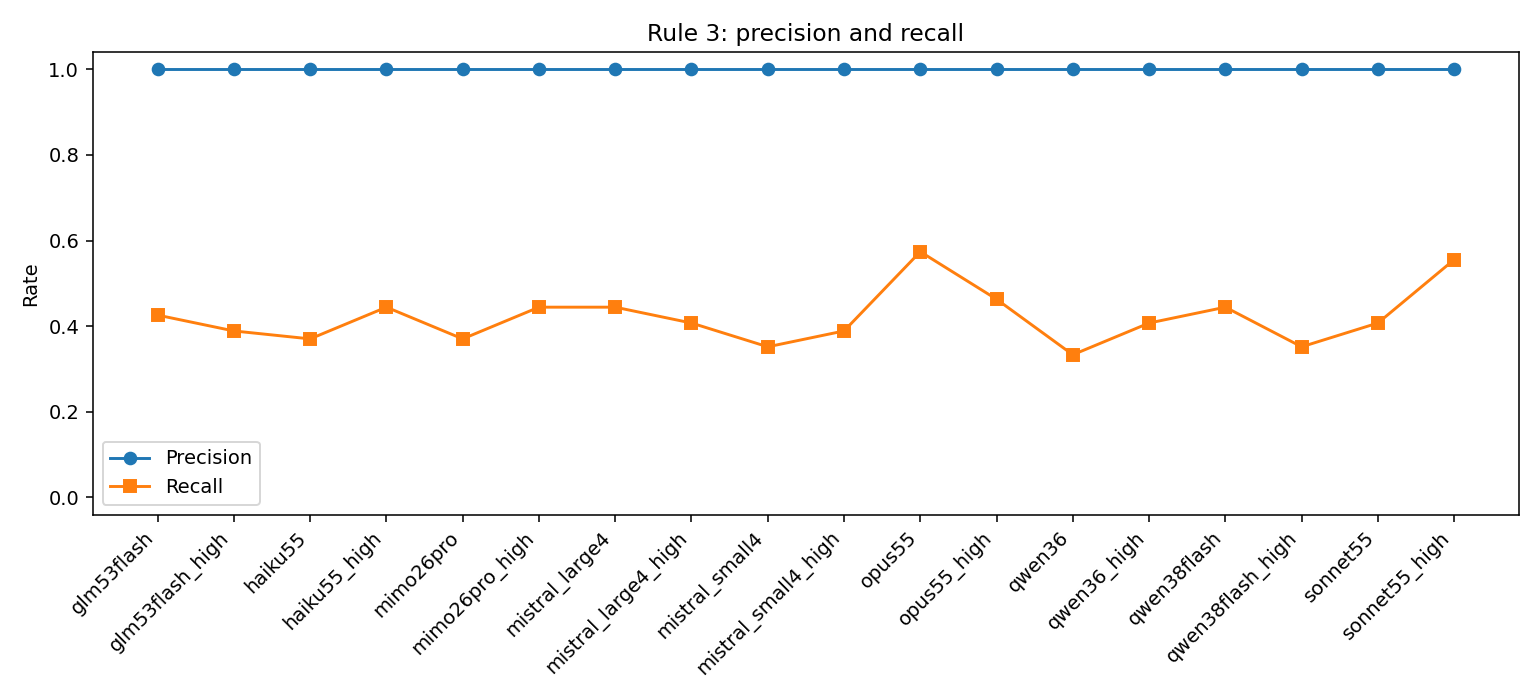
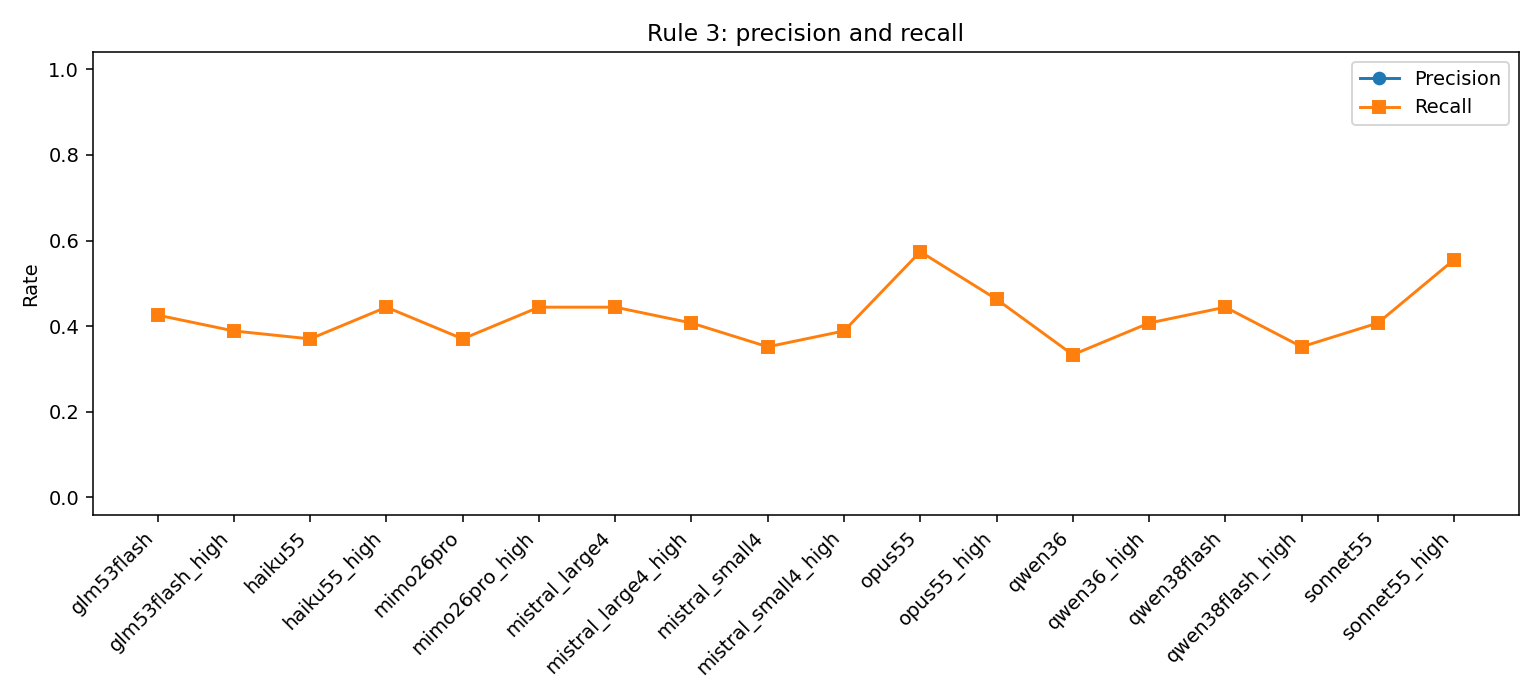
Red-team fixes: equal-rule recall, paired bootstrap delta CIs, unmeasured Rule 3 precision
## Done
- analyze.py reasoning_effect: recall_eq (equal-rule mean), rule4_positive_share, and 95% paired run-cell bootstrap CIs (stratified by rule, 2000 draws, seed 645) for pooled, equal-rule, and per-rule deltas.
- metrics: precision/F1 NaN for rules with no keep items (Rule 3), instead of a structural 1.0.
- paper_notes: stale first-read section marked obsolete; Rule 4 share corrected; CIs, leave-one-essay-out deltas, and reference-kappa sensitivity recorded. Tests 38 passed.

## Decisions
- Owner: pooled recall stays headline with equal-rule column beside it; paired run bootstrap for delta CIs.
- Error handling: none this session

## Next
- Write the paper from Assist/paper_notes.md and analysis_out/.

Changed region(s): [[0.0935, 0.09, 0.9974, 0.18], [0.0623, 0.63, 0.187, 0.72]]

diff --git a/bench/analysis/analyze.py b/bench/analysis/analyze.py
@@ -7,6 +7,7 @@ from pathlib import Path
 import matplotlib
 matplotlib.use("Agg")
 import matplotlib.pyplot as plt
+import numpy as np
 import pandas as pd
 from statsmodels.stats.contingency_tables import mcnemar
 from statsmodels.stats.multitest import multipletests
@@ -33,6 +34,9 @@ RUN_NUMERIC = ("cost_usd", "usage_output", "usage_reasoning", "invalid_edit_coun
                "collateral_count", "other_rule_instance", "uncatalogued_text")
 KEY = ["model_key", "run_id"]
 CELL = ["rule", "framing", "passage", "instance_id", "repeat"]
+RUN_CELL = ["rule", "passage", "repeat", "framing"]  # pairs a low-reasoning run with its high-reasoning twin
+BOOTSTRAP_DRAWS = 2000
+BOOTSTRAP_SEED = 645
 
 
 def wilson(successes: int, total: int) -> tuple[float, float]:
@@ -79,14 +83,19 @@ def load_scores(scores: Path) -> tuple[pd.DataFrame, pd.DataFrame]:
 
 
 def metrics(instances: pd.DataFrame) -> pd.DataFrame:
-    """Count confusion labels, then calculate pooled precision, recall and F1."""
+    """Count confusion labels, then calculate pooled precision, recall and F1.
+
+    FP exists only on keep-polarity items. A rule with no keep items (Rule 3) cannot produce an FP, so its
+    precision is unmeasured (NaN), not a demonstrated 1.0.
+    """
     rows = []
     for (rule, model), group in instances.groupby(["rule", "model_key"], sort=True):
         counts = group["label"].value_counts()
         tp, fn, fp, tn = (int(counts.get(label, 0)) for label in ("TP", "FN", "FP", "TN"))
-        p = tp / (tp + fp) if tp + fp else float("nan")
+        measurable = bool((group.polarity == "keep").any())
+        p = tp / (tp + fp) if measurable and tp + fp else float("nan")
         r = tp / (tp + fn) if tp + fn else float("nan")
-        p_low, p_high = wilson(tp, tp + fp)
+        p_low, p_high = wilson(tp, tp + fp) if measurable else (float("nan"), float("nan"))
         r_low, r_high = wilson(tp, tp + fn)
         f1 = 2 * p * r / (p + r) if p + r > 0 else float("nan")
         rows.append(dict(rule=rule, model_key=model, TP=tp, FN=fn, FP=fp, TN=tn,
@@ -236,9 +245,58 @@ def _condition_stats(instances: pd.DataFrame, runs: pd.DataFrame) -> dict[str, f
                 cost_usd=cost, cost_per_tp=cost / tp if tp else float("nan"))
 
 
+def _cell_counts(instances: pd.DataFrame) -> pd.DataFrame:
+    """TP and FN per run cell; FN counts parse failures, so failed runs stay in the denominator."""
+    labels = instances.assign(tp=instances.label.eq("TP"), fn=instances.label.eq("FN"))
+    return labels.groupby(RUN_CELL, observed=True)[["tp", "fn"]].sum().astype(int)
+
+
+def _delta_intervals(min_inst: pd.DataFrame, high_inst: pd.DataFrame) -> dict[str, tuple[float, float]]:
+    """95% paired bootstrap intervals for the high-minus-min recall deltas.
+
+    Instances cluster within runs and the same essays repeat, so instance-level intervals are too narrow.
+    The resampling unit is a run cell, paired across the two conditions, drawn with replacement within each
+    rule so every draw keeps the rule mix. Returns intervals for the pooled delta, the equal-rule delta, and
+    each rule's delta.
+    """
+    paired = _cell_counts(min_inst).join(_cell_counts(high_inst), lsuffix="_min", rsuffix="_high", how="inner")
+    rng = np.random.default_rng(BOOTSTRAP_SEED)
+    sums = {}
+    for rule, group in paired.groupby(level="rule"):
+        values = group[["tp_min", "fn_min", "tp_high", "fn_high"]].to_numpy()
+        draws = rng.integers(0, len(values), size=(BOOTSTRAP_DRAWS, len(values)))
+        sums[rule] = values[draws].sum(axis=1)  # shape (draws, 4)
+
+    def recall(tp, fn):
+        with np.errstate(invalid="ignore", divide="ignore"):
+            return tp / (tp + fn)
+
+    def interval(deltas: np.ndarray) -> tuple[float, float]:
+        low, high = np.nanpercentile(deltas, [2.5, 97.5])
+        return float(low), float(high)
+
+    per_rule = {rule: recall(s[:, 2], s[:, 3]) - recall(s[:, 0], s[:, 1]) for rule, s in sums.items()}
+    total = sum(sums.values())
+    result = {"pooled": interval(recall(total[:, 2], total[:, 3]) - recall(total[:, 0], total[:, 1])),
+              "equal_rule": interval(np.mean(list(per_rule.values()), axis=0))}
+    result.update({rule: interval(deltas) for rule, deltas in per_rule.items()})
+    return result
+
+
+def _equal_rule_recall(instances: pd.DataFrame) -> float:
+    """Mean of per-rule recalls, so each rule counts once regardless of its instance count."""
+    tp = instances.label.eq("TP").groupby(instances.rule).sum()
+    fn = instances.label.eq("FN").groupby(instances.rule).sum()
+    recalls = (tp / (tp + fn)).dropna()
+    return float(recalls.mean()) if len(recalls) else float("nan")
+
+
 def reasoning_effect(instances: pd.DataFrame, runs: pd.DataFrame) -> pd.DataFrame:
     """Compare min vs high reasoning on quality, usage, and API cost."""
     columns = ["model_key", "rule", "recall_min", "recall_high", "recall_delta",
+               "recall_delta_ci_low", "recall_delta_ci_high",
+               "recall_eq_min", "recall_eq_high", "recall_eq_delta",
+               "recall_eq_delta_ci_low", "recall_eq_delta_ci_high", "rule4_positive_share",
                "keep_damage_fp_rate_min", "keep_damage_fp_rate_high",
                "failed_runs_min", "failed_runs_high",
                "median_usage_output_min", "median_usage_output_high",
@@ -250,15 +308,23 @@ def reasoning_effect(instances: pd.DataFrame, runs: pd.DataFrame) -> pd.DataFram
     rows = []
 
     def add(model: str, rule, min_inst: pd.DataFrame, high_inst: pd.DataFrame,
-            min_run: pd.DataFrame, high_run: pd.DataFrame) -> None:
+            min_run: pd.DataFrame, high_run: pd.DataFrame, intervals: dict) -> None:
         if min_inst.empty or high_inst.empty:
             return
         minimum = _condition_stats(min_inst, min_run)
         high = _condition_stats(high_inst, high_run)
         cost_ratio = high["cost_usd"] / minimum["cost_usd"] if minimum["cost_usd"] else float("nan")
+        eq_min, eq_high = _equal_rule_recall(min_inst), _equal_rule_recall(high_inst)
+        delta_ci = intervals["pooled" if rule == "all" else rule]
+        eq_ci = intervals["equal_rule" if rule == "all" else rule]
+        positives = min_inst[min_inst.polarity != "keep"]
         rows.append(dict(model_key=model, rule=rule,
                          recall_min=minimum["recall"], recall_high=high["recall"],
                          recall_delta=high["recall"] - minimum["recall"],
+                         recall_delta_ci_low=delta_ci[0], recall_delta_ci_high=delta_ci[1],
+                         recall_eq_min=eq_min, recall_eq_high=eq_high, recall_eq_delta=eq_high - eq_min,
+                         recall_eq_delta_ci_low=eq_ci[0], recall_eq_delta_ci_high=eq_ci[1],
+                         rule4_positive_share=float((positives.rule == 4).mean()) if len(positives) else float("nan"),
                          keep_damage_fp_rate_min=minimum["keep_damage_fp_rate"],
                          keep_damage_fp_rate_high=high["keep_damage_fp_rate"],
                          failed_runs_min=minimum["failed_runs"], failed_runs_high=high["failed_runs"],
@@ -270,24 +336,22 @@ def reasoning_effect(instances: pd.DataFrame, runs: pd.DataFrame) -> pd.DataFram
                          cost_ratio=cost_ratio,
                          cost_per_tp_min=minimum["cost_per_tp"], cost_per_tp_high=high["cost_per_tp"]))
 
+    slices = {}
     for model in pairs:
         high_key = f"{model}_high"
         min_inst = instances[instances.model_key.astype(str) == model]
         high_inst = instances[instances.model_key.astype(str) == high_key]
-        min_run = runs[runs.model_key.astype(str) == model]
-        high_run = runs[runs.model_key.astype(str) == high_key]
         shared = set(min_inst.rule) & set(high_inst.rule)
-        add(model, "all", min_inst[min_inst.rule.isin(shared)], high_inst[high_inst.rule.isin(shared)],
-            min_run[min_run.rule.isin(shared)], high_run[high_run.rule.isin(shared)])
-    for model in pairs:
-        high_key = f"{model}_high"
-        min_inst = instances[instances.model_key.astype(str) == model]
-        high_inst = instances[instances.model_key.astype(str) == high_key]
-        min_run = runs[runs.model_key.astype(str) == model]
-        high_run = runs[runs.model_key.astype(str) == high_key]
-        for rule in sorted(set(min_inst.rule) & set(high_inst.rule)):
+        min_inst, high_inst = min_inst[min_inst.rule.isin(shared)], high_inst[high_inst.rule.isin(shared)]
+        min_run = runs[(runs.model_key.astype(str) == model) & runs.rule.isin(shared)]
+        high_run = runs[(runs.model_key.astype(str) == high_key) & runs.rule.isin(shared)]
+        slices[model] = (shared, min_inst, high_inst, min_run, high_run, _delta_intervals(min_inst, high_inst))
+    for model, (shared, min_inst, high_inst, min_run, high_run, intervals) in slices.items():
+        add(model, "all", min_inst, high_inst, min_run, high_run, intervals)
+    for model, (shared, min_inst, high_inst, min_run, high_run, intervals) in slices.items():
+        for rule in sorted(shared):
             add(model, rule, min_inst[min_inst.rule == rule], high_inst[high_inst.rule == rule],
-                min_run[min_run.rule == rule], high_run[high_run.rule == rule])
+                min_run[min_run.rule == rule], high_run[high_run.rule == rule], intervals)
     return pd.DataFrame(rows, columns=columns)
 
 
@@ -377,7 +441,12 @@ def analyze(scores: Path, out: Path, min_lower: float = 0.80) -> dict[str, pd.Da
     for name, frame in tables.items():
         note = "Claude cost is list-price-equivalent under subscription." if name == "API cost" else ""
         if name == "Reasoning effect":
-            note = "All-rules is the headline row. Claude cost is list-price-equivalent under subscription."
+            note = ("All-rules is the headline row: pooled recall plus the equal-rule mean (recall_eq), since "
+                    "Rule 4 supplies most positive instances (rule4_positive_share). Delta intervals are 95% "
+                    f"paired bootstrap over run cells within each rule ({BOOTSTRAP_DRAWS} draws, seed "
+                    f"{BOOTSTRAP_SEED}). Claude cost is list-price-equivalent under subscription.")
+        if name == "Precision recall F1":
+            note = "Rule 3 has no keep items, so it cannot produce FP: its precision and F1 are unmeasured (blank)."
         if name == "Repeat stability":
             note = "Only complete three-repeat instance cells count. Rule 3 framings are separate cells."
         if name == "Collateral per run":

diff --git a/analysis_out/reasoning_effect.md b/analysis_out/reasoning_effect.md
@@ -1,60 +1,60 @@
 # Reasoning effect
 
-All-rules is the headline row. Claude cost is list-price-equivalent under subscription.
+All-rules is the headline row: pooled recall plus the equal-rule mean (recall_eq), since Rule 4 supplies most positive instances (rule4_positive_share). Delta intervals are 95% paired bootstrap over run cells within each rule (2000 draws, seed 645). Claude cost is list-price-equivalent under subscription.
 
-| model_key | rule | recall_min | recall_high | recall_delta | keep_damage_fp_rate_min | keep_damage_fp_rate_high | failed_runs_min | failed_runs_high | median_usage_output_min | median_usage_output_high | median_usage_reasoning_min | median_usage_reasoning_high | cost_usd_min | cost_usd_high | cost_ratio | cost_per_tp_min | cost_per_tp_high |
-| --- | --- | --- | --- | --- | --- | --- | --- | --- | --- | --- | --- | --- | --- | --- | --- | --- | --- |
-| qwen36 | all | 0.15625 | 0.188301 | 0.0320513 | 0.357143 | 0.404762 | 1 | 7 | 589 | 3710 | 0 | 2933 | 0.169102 | 0.346527 | 2.04922 | 0.000867191 | 0.00147458 |
-| qwen38flash | all | 0.447917 | 0.327724 | -0.120192 | 0.52381 | 0.333333 | 4 | 6 | 893 | 8583 | 0 | 7065 | 0.219041 | 0.319767 | 1.45985 | 0.000391844 | 0.000781826 |
-| mistral_small4 | all | 0.0649038 | 0.165865 | 0.100962 | 0.309524 | 0.357143 | 6 | 0 | 198 | 952 | 0 | 624 | 0.147767 | 0.206443 | 1.39709 | 0.00182428 | 0.00099731 |
-| glm53flash | all | 0.453526 | 0.548077 | 0.0945513 | 0.47619 | 0.52381 | 3 | 2 | 1047 | 2506 | 730.5 | 2230.5 | 0.170111 | 0.336821 | 1.98 | 0.00030055 | 0.000492428 |
-| mimo26pro | all | 0.473558 | 0.629006 | 0.155449 | 0.547619 | 0.52381 | 2 | 0 | 317 | 6369.5 | 0 | 6049.5 | 0.650562 | 0.860538 | 1.32276 | 0.00110078 | 0.00109623 |
-| mistral_large4 | all | 0.431891 | 0.592147 | 0.160256 | 0.642857 | 0.47619 | 1 | 2 | 489 | 14165 | 0 | 12772 | 0.672245 | 2.70055 | 4.01722 | 0.00124721 | 0.00365433 |
-| haiku55 | all | 0.206731 | 0.663462 | 0.456731 | 0.357143 | 0.309524 | 1 | 0 | 422.5 | 3864 | 0 | 0 | 0.095876 | 0.400008 | 4.17214 | 0.000371612 | 0.000483101 |
-| sonnet55 | all | 0.494391 | 0.645833 | 0.151442 | 0.642857 | 0.5 | 7 | 0 | 622 | 1184.5 | 0 | 0 | 1.77109 | 3.15154 | 1.77944 | 0.00287048 | 0.0039101 |
-| opus55 | all | 0.678686 | 0.606571 | -0.0721154 | 0.404762 | 0.285714 | 0 | 0 | 559 | 1368.5 | 0 | 0 | 4.15328 | 8.1138 | 1.95359 | 0.00490351 | 0.0107184 |
-| qwen36 | 1 | 0.0952381 | 0.031746 | -0.0634921 | 0.2 | 0.2 | 1 | 5 | 2417 | 3860 | 0 | 2555 | 0.0559644 | 0.0634387 | 1.13355 | 0.00310914 | 0.0105731 |
-| qwen36 | 2 | 0.0784314 | 0.215686 | 0.137255 | 0.666667 | 0.666667 | 0 | 0 | 631 | 5084 | 0 | 4749 | 0.0264803 | 0.0414791 | 1.56641 | 0.00662009 | 0.00377082 |
-| qwen36 | 3 | 0.333333 | 0.407407 | 0.0740741 | NA | NA | 0 | 1 | 174.5 | 1848 | 0 | 1644.5 | 0.0335011 | 0.0597452 | 1.78338 | 0.00186117 | 0.00271569 |
-| qwen36 | 4 | 0.16317 | 0.215618 | 0.0524476 | 0 | 0 | 0 | 0 | 2237 | 10037 | 0 | 9213 | 0.0331934 | 0.14681 | 4.42286 | 0.000237096 | 0.000793567 |
-| qwen36 | 5 | 0.15625 | 0.114583 | -0.0416667 | 0.666667 | 0.888889 | 0 | 1 | 395 | 3873 | 0 | 3489 | 0.0199628 | 0.0350546 | 1.75599 | 0.00133086 | 0.00318678 |
-| qwen38flash | 1 | 0.269841 | 0.174603 | -0.0952381 | 0.733333 | 0.266667 | 1 | 2 | 7330 | 26024 | 0 | 22181 | 0.0682538 | 0.0886071 | 1.2982 | 0.00133831 | 0.00268506 |
-| qwen38flash | 2 | 0.235294 | 0.392157 | 0.156863 | 0.444444 | 0.444444 | 1 | 0 | 766 | 12553 | 0 | 9570 | 0.0164421 | 0.0552708 | 3.36154 | 0.00137018 | 0.00276354 |
-| qwen38flash | 3 | 0.444444 | 0.351852 | -0.0925926 | NA | NA | 0 | 0 | 668 | 4210 | 0 | 3992 | 0.0312496 | 0.0598088 | 1.9139 | 0.00130207 | 0.00314783 |
-| qwen38flash | 4 | 0.538462 | 0.374126 | -0.164336 | 0 | 0 | 1 | 4 | 5081 | 16639 | 0 | 14374 | 0.0497883 | 0.0852519 | 1.71229 | 0.000107767 | 0.000265582 |
-| qwen38flash | 5 | 0.104167 | 0.166667 | 0.0625 | 0.777778 | 0.666667 | 1 | 0 | 627 | 6200 | 0 | 5978 | 0.0533071 | 0.0308282 | 0.578312 | 0.00533071 | 0.00192676 |
-| mistral_small4 | 1 | 0.126984 | 0.10582 | -0.021164 | 0.2 | 0.133333 | 0 | 0 | 3394 | 4796 | 0 | 2814 | 0.044169 | 0.0421697 | 0.954734 | 0.00184038 | 0.00210848 |
-| mistral_small4 | 2 | 0.235294 | 0.176471 | -0.0588235 | 0.222222 | 0.444444 | 0 | 0 | 585 | 1361 | 0 | 1208 | 0.02643 | 0.0317644 | 1.20183 | 0.0022025 | 0.00352938 |
-| mistral_small4 | 3 | 0.351852 | 0.388889 | 0.037037 | NA | NA | 0 | 0 | 183 | 474.5 | 0 | 372 | 0.0531378 | 0.0520051 | 0.978683 | 0.00279673 | 0.00247643 |
-| mistral_small4 | 4 | 0.0221445 | 0.166667 | 0.144522 | 0 | 0 | 6 | 0 | 0 | 5404 | 0 | 4309 | 0.0101596 | 0.0461694 | 4.54439 | 0.000534718 | 0.000322863 |
-| mistral_small4 | 5 | 0.0729167 | 0.145833 | 0.0729167 | 0.888889 | 1 | 0 | 0 | 199 | 1200 | 0 | 970 | 0.0138701 | 0.0343347 | 2.47546 | 0.00198144 | 0.00245248 |
-| glm53flash | 1 | 0.238095 | 0.26455 | 0.026455 | 0.4 | 0.4 | 1 | 1 | 4996 | 20385 | 3219 | 18184 | 0.0338532 | 0.0887407 | 2.62134 | 0.000752293 | 0.00177481 |
-| glm53flash | 2 | 0.352941 | 0.470588 | 0.117647 | 0.666667 | 0.777778 | 0 | 0 | 1159 | 4104 | 748 | 3799 | 0.0303968 | 0.0533338 | 1.75459 | 0.00168871 | 0.00222224 |
-| glm53flash | 3 | 0.425926 | 0.388889 | -0.037037 | NA | NA | 0 | 0 | 640.5 | 1415.5 | 477.5 | 1280 | 0.0341178 | 0.0571023 | 1.67368 | 0.00148338 | 0.00271916 |
-| glm53flash | 4 | 0.545455 | 0.667832 | 0.122378 | 0 | 0 | 1 | 1 | 7198 | 24135 | 4364 | 20346 | 0.0507614 | 0.115892 | 2.28308 | 0.000108465 | 0.000202256 |
-| glm53flash | 5 | 0.125 | 0.166667 | 0.0416667 | 0.888889 | 1 | 1 | 0 | 733 | 1405 | 395 | 1094 | 0.0209822 | 0.0217512 | 1.03665 | 0.00174852 | 0.00135945 |
-| mimo26pro | 1 | 0.227513 | 0.285714 | 0.0582011 | 0.666667 | 0.866667 | 0 | 0 | 1706 | 28538 | 0 | 26645 | 0.475637 | 0.289713 | 0.609106 | 0.0110613 | 0.00536506 |
-| mimo26pro | 2 | 0.333333 | 0.431373 | 0.0980392 | 0.555556 | 0.555556 | 2 | 0 | 528 | 8328 | 0 | 7801 | 0.0336 | 0.0851278 | 2.53357 | 0.00197647 | 0.00386945 |
-| mimo26pro | 3 | 0.37037 | 0.444444 | 0.0740741 | NA | NA | 0 | 0 | 121 | 3251 | 0 | 3054 | 0.0494557 | 0.14686 | 2.96954 | 0.00247278 | 0.00611918 |
-| mimo26pro | 4 | 0.578089 | 0.778555 | 0.200466 | 0 | 0 | 0 | 0 | 3965 | 30454 | 0 | 26451 | 0.0606764 | 0.28012 | 4.61662 | 0.000122331 | 0.000419341 |
-| mimo26pro | 5 | 0.15625 | 0.177083 | 0.0208333 | 0.888889 | 0.444444 | 0 | 0 | 294 | 5495 | 0 | 5304 | 0.0311932 | 0.0587161 | 1.88234 | 0.00207955 | 0.00345389 |
-| mistral_large4 | 1 | 0.280423 | 0.280423 | 0 | 0.866667 | 0.533333 | 0 | 1 | 5036 | 43281 | 0 | 38905 | 0.302085 | 0.905598 | 2.99783 | 0.00569972 | 0.0170868 |
-| mistral_large4 | 2 | 0.254902 | 0.392157 | 0.137255 | 0.444444 | 0.333333 | 0 | 0 | 479 | 13448 | 0 | 13063 | 0.0718725 | 0.392252 | 5.45761 | 0.00552865 | 0.0196126 |
-| mistral_large4 | 3 | 0.444444 | 0.407407 | -0.037037 | NA | NA | 0 | 0 | 175.5 | 7360 | 0 | 7170.5 | 0.117473 | 0.490062 | 4.17171 | 0.00489469 | 0.0222755 |
-| mistral_large4 | 4 | 0.498834 | 0.7331 | 0.234266 | 0.111111 | 0 | 1 | 1 | 4345 | 30775 | 0 | 27858 | 0.130848 | 0.71611 | 5.47282 | 0.000305721 | 0.00113849 |
-| mistral_large4 | 5 | 0.21875 | 0.15625 | -0.0625 | 1 | 1 | 0 | 0 | 418 | 5975 | 0 | 5654 | 0.0499661 | 0.19653 | 3.93328 | 0.00237934 | 0.013102 |
-| haiku55 | 1 | 0.116402 | 0.333333 | 0.216931 | 0.266667 | 0.466667 | 0 | 0 | 6654 | 39101 | 0 | 0 | 0.039139 | 0.18253 | 4.66365 | 0.00177904 | 0.00289731 |
-| haiku55 | 2 | 0.0392157 | 0.313725 | 0.27451 | 0.111111 | 0.555556 | 1 | 0 | 408 | 4634 | 0 | 0 | 0.00934187 | 0.0280744 | 3.00522 | 0.00467093 | 0.00175465 |
-| haiku55 | 3 | 0.37037 | 0.444444 | 0.0740741 | NA | NA | 0 | 0 | 236.5 | 2972.5 | 0 | 0 | 0.0168847 | 0.0404532 | 2.39585 | 0.000844235 | 0.00168555 |
-| haiku55 | 4 | 0.229604 | 0.829837 | 0.600233 | 0.111111 | 0 | 0 | 0 | 2361 | 26585 | 0 | 0 | 0.0209236 | 0.129291 | 6.17919 | 0.000106211 | 0.000181589 |
-| haiku55 | 5 | 0.177083 | 0.135417 | -0.0416667 | 1 | 0.111111 | 0 | 0 | 590 | 2523 | 0 | 0 | 0.00958681 | 0.0196586 | 2.05059 | 0.00056393 | 0.0015122 |
-| sonnet55 | 1 | 0.306878 | 0.550265 | 0.243386 | 0.8 | 0.666667 | 0 | 0 | 2817 | 13251 | 0 | 0 | 0.472127 | 1.2402 | 2.62683 | 0.00814012 | 0.011925 |
-| sonnet55 | 2 | 0.137255 | 0.352941 | 0.215686 | 0.666667 | 0.666667 | 2 | 0 | 560 | 1138 | 0 | 0 | 0.171669 | 0.229094 | 1.33451 | 0.0245242 | 0.0127275 |
-| sonnet55 | 3 | 0.407407 | 0.555556 | 0.148148 | NA | NA | 5 | 0 | 476 | 846.5 | 0 | 0 | 0.340463 | 0.380779 | 1.11842 | 0.0154756 | 0.0126926 |
-| sonnet55 | 4 | 0.592075 | 0.750583 | 0.158508 | 0 | 0 | 0 | 0 | 5349 | 10324 | 0 | 0 | 0.630044 | 1.07844 | 1.71168 | 0.00124024 | 0.00167459 |
-| sonnet55 | 5 | 0.229167 | 0.104167 | -0.125 | 1 | 0.555556 | 0 | 0 | 491 | 1299 | 0 | 0 | 0.156783 | 0.223038 | 1.42259 | 0.00712649 | 0.0223038 |
-| opus55 | 1 | 0.455026 | 0.455026 | 0 | 0.6 | 0.6 | 0 | 0 | 4706 | 20396 | 0 | 0 | 1.08706 | 3.99046 | 3.67089 | 0.0126402 | 0.0464008 |
-| opus55 | 2 | 0.352941 | 0.431373 | 0.0784314 | 0.444444 | 0.111111 | 0 | 0 | 439 | 1513 | 0 | 0 | 0.32689 | 0.499838 | 1.52907 | 0.0181606 | 0.0227199 |
-| opus55 | 3 | 0.574074 | 0.462963 | -0.111111 | NA | NA | 0 | 0 | 433.5 | 960 | 0 | 0 | 0.632481 | 0.831438 | 1.31456 | 0.0204026 | 0.0332575 |
-| opus55 | 4 | 0.815851 | 0.715618 | -0.100233 | 0 | 0 | 0 | 0 | 7043 | 10064 | 0 | 0 | 1.78939 | 2.29997 | 1.28534 | 0.00255627 | 0.00374589 |
-| opus55 | 5 | 0.125 | 0.104167 | -0.0208333 | 0.444444 | 0.222222 | 0 | 0 | 508 | 1342 | 0 | 0 | 0.317457 | 0.492087 | 1.55009 | 0.0264547 | 0.0492087 |
+| model_key | rule | recall_min | recall_high | recall_delta | recall_delta_ci_low | recall_delta_ci_high | recall_eq_min | recall_eq_high | recall_eq_delta | recall_eq_delta_ci_low | recall_eq_delta_ci_high | rule4_positive_share | keep_damage_fp_rate_min | keep_damage_fp_rate_high | failed_runs_min | failed_runs_high | median_usage_output_min | median_usage_output_high | median_usage_reasoning_min | median_usage_reasoning_high | cost_usd_min | cost_usd_high | cost_ratio | cost_per_tp_min | cost_per_tp_high |
+| --- | --- | --- | --- | --- | --- | --- | --- | --- | --- | --- | --- | --- | --- | --- | --- | --- | --- | --- | --- | --- | --- | --- | --- | --- | --- |
+| qwen36 | all | 0.15625 | 0.188301 | 0.0320513 | -0.0427821 | 0.122918 | 0.165285 | 0.197008 | 0.0317236 | -0.00923244 | 0.0744678 | 0.6875 | 0.357143 | 0.404762 | 1 | 7 | 589 | 3710 | 0 | 2933 | 0.169102 | 0.346527 | 2.04922 | 0.000867191 | 0.00147458 |
+| qwen38flash | all | 0.447917 | 0.327724 | -0.120192 | -0.297236 | 0.0270492 | 0.318442 | 0.291881 | -0.0265607 | -0.094599 | 0.0415589 | 0.6875 | 0.52381 | 0.333333 | 4 | 6 | 893 | 8583 | 0 | 7065 | 0.219041 | 0.319767 | 1.45985 | 0.000391844 | 0.000781826 |
+| mistral_small4 | all | 0.0649038 | 0.165865 | 0.100962 | 0.0300144 | 0.189457 | 0.161838 | 0.196736 | 0.0348977 | -0.0197218 | 0.0860536 | 0.6875 | 0.309524 | 0.357143 | 6 | 0 | 198 | 952 | 0 | 624 | 0.147767 | 0.206443 | 1.39709 | 0.00182428 | 0.00099731 |
+| glm53flash | all | 0.453526 | 0.548077 | 0.0945513 | -0.11767 | 0.300515 | 0.337483 | 0.391705 | 0.0542219 | -0.0291553 | 0.133666 | 0.6875 | 0.47619 | 0.52381 | 3 | 2 | 1047 | 2506 | 730.5 | 2230.5 | 0.170111 | 0.336821 | 1.98 | 0.00030055 | 0.000492428 |
+| mimo26pro | all | 0.473558 | 0.629006 | 0.155449 | 0.0272536 | 0.304108 | 0.333111 | 0.423434 | 0.0903228 | 0.0223019 | 0.157635 | 0.6875 | 0.547619 | 0.52381 | 2 | 0 | 317 | 6369.5 | 0 | 6049.5 | 0.650562 | 0.860538 | 1.32276 | 0.00110078 | 0.00109623 |
+| mistral_large4 | all | 0.431891 | 0.592147 | 0.160256 | -0.0336924 | 0.336625 | 0.339471 | 0.393868 | 0.0543967 | -0.0180819 | 0.124413 | 0.6875 | 0.642857 | 0.47619 | 1 | 2 | 489 | 14165 | 0 | 12772 | 0.672245 | 2.70055 | 4.01722 | 0.00124721 | 0.00365433 |
+| haiku55 | all | 0.206731 | 0.663462 | 0.456731 | 0.370885 | 0.548252 | 0.186535 | 0.411351 | 0.224816 | 0.159462 | 0.297838 | 0.6875 | 0.357143 | 0.309524 | 1 | 0 | 422.5 | 3864 | 0 | 0 | 0.095876 | 0.400008 | 4.17214 | 0.000371612 | 0.000483101 |
+| sonnet55 | all | 0.494391 | 0.645833 | 0.151442 | 0.105684 | 0.201076 | 0.334556 | 0.462702 | 0.128146 | 0.0672264 | 0.192917 | 0.6875 | 0.642857 | 0.5 | 7 | 0 | 622 | 1184.5 | 0 | 0 | 1.77109 | 3.15154 | 1.77944 | 0.00287048 | 0.0039101 |
+| opus55 | all | 0.678686 | 0.606571 | -0.0721154 | -0.199713 | 0.0183854 | 0.464579 | 0.433829 | -0.0307492 | -0.0814551 | 0.01394 | 0.6875 | 0.404762 | 0.285714 | 0 | 0 | 559 | 1368.5 | 0 | 0 | 4.15328 | 8.1138 | 1.95359 | 0.00490351 | 0.0107184 |
+| qwen36 | 1 | 0.0952381 | 0.031746 | -0.0634921 | -0.102859 | -0.021722 | 0.0952381 | 0.031746 | -0.0634921 | -0.102859 | -0.021722 | 0 | 0.2 | 0.2 | 1 | 5 | 2417 | 3860 | 0 | 2555 | 0.0559644 | 0.0634387 | 1.13355 | 0.00310914 | 0.0105731 |
+| qwen36 | 2 | 0.0784314 | 0.215686 | 0.137255 | 0.0625 | 0.227273 | 0.0784314 | 0.215686 | 0.137255 | 0.0625 | 0.227273 | 0 | 0.666667 | 0.666667 | 0 | 0 | 631 | 5084 | 0 | 4749 | 0.0264803 | 0.0414791 | 1.56641 | 0.00662009 | 0.00377082 |
+| qwen36 | 3 | 0.333333 | 0.407407 | 0.0740741 | -0.037037 | 0.203704 | 0.333333 | 0.407407 | 0.0740741 | -0.037037 | 0.203704 | 0 | NA | NA | 0 | 1 | 174.5 | 1848 | 0 | 1644.5 | 0.0335011 | 0.0597452 | 1.78338 | 0.00186117 | 0.00271569 |
+| qwen36 | 4 | 0.16317 | 0.215618 | 0.0524476 | -0.0524476 | 0.191348 | 0.16317 | 0.215618 | 0.0524476 | -0.0524476 | 0.191348 | 1 | 0 | 0 | 0 | 0 | 2237 | 10037 | 0 | 9213 | 0.0331934 | 0.14681 | 4.42286 | 0.000237096 | 0.000793567 |
+| qwen36 | 5 | 0.15625 | 0.114583 | -0.0416667 | -0.12766 | 0.06 | 0.15625 | 0.114583 | -0.0416667 | -0.12766 | 0.06 | 0 | 0.666667 | 0.888889 | 0 | 1 | 395 | 3873 | 0 | 3489 | 0.0199628 | 0.0350546 | 1.75599 | 0.00133086 | 0.00318678 |
+| qwen38flash | 1 | 0.269841 | 0.174603 | -0.0952381 | -0.236275 | 0.0459546 | 0.269841 | 0.174603 | -0.0952381 | -0.236275 | 0.0459546 | 0 | 0.733333 | 0.266667 | 1 | 2 | 7330 | 26024 | 0 | 22181 | 0.0682538 | 0.0886071 | 1.2982 | 0.00133831 | 0.00268506 |
+| qwen38flash | 2 | 0.235294 | 0.392157 | 0.156863 | 0.0392157 | 0.285714 | 0.235294 | 0.392157 | 0.156863 | 0.0392157 | 0.285714 | 0 | 0.444444 | 0.444444 | 1 | 0 | 766 | 12553 | 0 | 9570 | 0.0164421 | 0.0552708 | 3.36154 | 0.00137018 | 0.00276354 |
+| qwen38flash | 3 | 0.444444 | 0.351852 | -0.0925926 | -0.222685 | 0.0555556 | 0.444444 | 0.351852 | -0.0925926 | -0.222685 | 0.0555556 | 0 | NA | NA | 0 | 0 | 668 | 4210 | 0 | 3992 | 0.0312496 | 0.0598088 | 1.9139 | 0.00130207 | 0.00314783 |
+| qwen38flash | 4 | 0.538462 | 0.374126 | -0.164336 | -0.420054 | 0.046188 | 0.538462 | 0.374126 | -0.164336 | -0.420054 | 0.046188 | 1 | 0 | 0 | 1 | 4 | 5081 | 16639 | 0 | 14374 | 0.0497883 | 0.0852519 | 1.71229 | 0.000107767 | 0.000265582 |
+| qwen38flash | 5 | 0.104167 | 0.166667 | 0.0625 | -0.0102041 | 0.134831 | 0.104167 | 0.166667 | 0.0625 | -0.0102041 | 0.134831 | 0 | 0.777778 | 0.666667 | 1 | 0 | 627 | 6200 | 0 | 5978 | 0.0533071 | 0.0308282 | 0.578312 | 0.00533071 | 0.00192676 |
+| mistral_small4 | 1 | 0.126984 | 0.10582 | -0.021164 | -0.176768 | 0.127084 | 0.126984 | 0.10582 | -0.021164 | -0.176768 | 0.127084 | 0 | 0.2 | 0.133333 | 0 | 0 | 3394 | 4796 | 0 | 2814 | 0.044169 | 0.0421697 | 0.954734 | 0.00184038 | 0.00210848 |
+| mistral_small4 | 2 | 0.235294 | 0.176471 | -0.0588235 | -0.23913 | 0.074109 | 0.235294 | 0.176471 | -0.0588235 | -0.23913 | 0.074109 | 0 | 0.222222 | 0.444444 | 0 | 0 | 585 | 1361 | 0 | 1208 | 0.02643 | 0.0317644 | 1.20183 | 0.0022025 | 0.00352938 |
+| mistral_small4 | 3 | 0.351852 | 0.388889 | 0.037037 | -0.0555556 | 0.12963 | 0.351852 | 0.388889 | 0.037037 | -0.0555556 | 0.12963 | 0 | NA | NA | 0 | 0 | 183 | 474.5 | 0 | 372 | 0.0531378 | 0.0520051 | 0.978683 | 0.00279673 | 0.00247643 |
+| mistral_small4 | 4 | 0.0221445 | 0.166667 | 0.144522 | 0.0486524 | 0.272409 | 0.0221445 | 0.166667 | 0.144522 | 0.0486524 | 0.272409 | 1 | 0 | 0 | 6 | 0 | 0 | 5404 | 0 | 4309 | 0.0101596 | 0.0461694 | 4.54439 | 0.000534718 | 0.000322863 |
+| mistral_small4 | 5 | 0.0729167 | 0.145833 | 0.0729167 | 0.0294046 | 0.125 | 0.0729167 | 0.145833 | 0.0729167 | 0.0294046 | 0.125 | 0 | 0.888889 | 1 | 0 | 0 | 199 | 1200 | 0 | 970 | 0.0138701 | 0.0343347 | 2.47546 | 0.00198144 | 0.00245248 |
+| glm53flash | 1 | 0.238095 | 0.26455 | 0.026455 | -0.191681 | 0.229268 | 0.238095 | 0.26455 | 0.026455 | -0.191681 | 0.229268 | 0 | 0.4 | 0.4 | 1 | 1 | 4996 | 20385 | 3219 | 18184 | 0.0338532 | 0.0887407 | 2.62134 | 0.000752293 | 0.00177481 |
+| glm53flash | 2 | 0.352941 | 0.470588 | 0.117647 | 0.0384615 | 0.215686 | 0.352941 | 0.470588 | 0.117647 | 0.0384615 | 0.215686 | 0 | 0.666667 | 0.777778 | 0 | 0 | 1159 | 4104 | 748 | 3799 | 0.0303968 | 0.0533338 | 1.75459 | 0.00168871 | 0.00222224 |
+| glm53flash | 3 | 0.425926 | 0.388889 | -0.037037 | -0.12963 | 0.0555556 | 0.425926 | 0.388889 | -0.037037 | -0.12963 | 0.0555556 | 0 | NA | NA | 0 | 0 | 640.5 | 1415.5 | 477.5 | 1280 | 0.0341178 | 0.0571023 | 1.67368 | 0.00148338 | 0.00271916 |
+| glm53flash | 4 | 0.545455 | 0.667832 | 0.122378 | -0.179976 | 0.410749 | 0.545455 | 0.667832 | 0.122378 | -0.179976 | 0.410749 | 1 | 0 | 0 | 1 | 1 | 7198 | 24135 | 4364 | 20346 | 0.0507614 | 0.115892 | 2.28308 | 0.000108465 | 0.000202256 |
+| glm53flash | 5 | 0.125 | 0.166667 | 0.0416667 | -0.0631579 | 0.145833 | 0.125 | 0.166667 | 0.0416667 | -0.0631579 | 0.145833 | 0 | 0.888889 | 1 | 1 | 0 | 733 | 1405 | 395 | 1094 | 0.0209822 | 0.0217512 | 1.03665 | 0.00174852 | 0.00135945 |
+| mimo26pro | 1 | 0.227513 | 0.285714 | 0.0582011 | -0.160243 | 0.259259 | 0.227513 | 0.285714 | 0.0582011 | -0.160243 | 0.259259 | 0 | 0.666667 | 0.866667 | 0 | 0 | 1706 | 28538 | 0 | 26645 | 0.475637 | 0.289713 | 0.609106 | 0.0110613 | 0.00536506 |
+| mimo26pro | 2 | 0.333333 | 0.431373 | 0.0980392 | 0 | 0.185185 | 0.333333 | 0.431373 | 0.0980392 | 0 | 0.185185 | 0 | 0.555556 | 0.555556 | 2 | 0 | 528 | 8328 | 0 | 7801 | 0.0336 | 0.0851278 | 2.53357 | 0.00197647 | 0.00386945 |
+| mimo26pro | 3 | 0.37037 | 0.444444 | 0.0740741 | -0.0555556 | 0.203704 | 0.37037 | 0.444444 | 0.0740741 | -0.0555556 | 0.203704 | 0 | NA | NA | 0 | 0 | 121 | 3251 | 0 | 3054 | 0.0494557 | 0.14686 | 2.96954 | 0.00247278 | 0.00611918 |
+| mimo26pro | 4 | 0.578089 | 0.778555 | 0.200466 | 0.0217865 | 0.417934 | 0.578089 | 0.778555 | 0.200466 | 0.0217865 | 0.417934 | 1 | 0 | 0 | 0 | 0 | 3965 | 30454 | 0 | 26451 | 0.0606764 | 0.28012 | 4.61662 | 0.000122331 | 0.000419341 |
+| mimo26pro | 5 | 0.15625 | 0.177083 | 0.0208333 | -0.0430108 | 0.0824742 | 0.15625 | 0.177083 | 0.0208333 | -0.0430108 | 0.0824742 | 0 | 0.888889 | 0.444444 | 0 | 0 | 294 | 5495 | 0 | 5304 | 0.0311932 | 0.0587161 | 1.88234 | 0.00207955 | 0.00345389 |
+| mistral_large4 | 1 | 0.280423 | 0.280423 | 0 | -0.218332 | 0.17993 | 0.280423 | 0.280423 | 0 | -0.218332 | 0.17993 | 0 | 0.866667 | 0.533333 | 0 | 1 | 5036 | 43281 | 0 | 38905 | 0.302085 | 0.905598 | 2.99783 | 0.00569972 | 0.0170868 |
+| mistral_large4 | 2 | 0.254902 | 0.392157 | 0.137255 | 0.0566038 | 0.217391 | 0.254902 | 0.392157 | 0.137255 | 0.0566038 | 0.217391 | 0 | 0.444444 | 0.333333 | 0 | 0 | 479 | 13448 | 0 | 13063 | 0.0718725 | 0.392252 | 5.45761 | 0.00552865 | 0.0196126 |
+| mistral_large4 | 3 | 0.444444 | 0.407407 | -0.037037 | -0.12963 | 0.0740741 | 0.444444 | 0.407407 | -0.037037 | -0.12963 | 0.0740741 | 0 | NA | NA | 0 | 0 | 175.5 | 7360 | 0 | 7170.5 | 0.117473 | 0.490062 | 4.17171 | 0.00489469 | 0.0222755 |
+| mistral_large4 | 4 | 0.498834 | 0.7331 | 0.234266 | -0.0513033 | 0.489448 | 0.498834 | 0.7331 | 0.234266 | -0.0513033 | 0.489448 | 1 | 0.111111 | 0 | 1 | 1 | 4345 | 30775 | 0 | 27858 | 0.130848 | 0.71611 | 5.47282 | 0.000305721 | 0.00113849 |
+| mistral_large4 | 5 | 0.21875 | 0.15625 | -0.0625 | -0.103466 | -0.0212766 | 0.21875 | 0.15625 | -0.0625 | -0.103466 | -0.0212766 | 0 | 1 | 1 | 0 | 0 | 418 | 5975 | 0 | 5654 | 0.0499661 | 0.19653 | 3.93328 | 0.00237934 | 0.013102 |
+| haiku55 | 1 | 0.116402 | 0.333333 | 0.216931 | 0.0377358 | 0.372346 | 0.116402 | 0.333333 | 0.216931 | 0.0377358 | 0.372346 | 0 | 0.266667 | 0.466667 | 0 | 0 | 6654 | 39101 | 0 | 0 | 0.039139 | 0.18253 | 4.66365 | 0.00177904 | 0.00289731 |
+| haiku55 | 2 | 0.0392157 | 0.313725 | 0.27451 | 0.103448 | 0.51065 | 0.0392157 | 0.313725 | 0.27451 | 0.103448 | 0.51065 | 0 | 0.111111 | 0.555556 | 1 | 0 | 408 | 4634 | 0 | 0 | 0.00934187 | 0.0280744 | 3.00522 | 0.00467093 | 0.00175465 |
+| haiku55 | 3 | 0.37037 | 0.444444 | 0.0740741 | -0.037037 | 0.203704 | 0.37037 | 0.444444 | 0.0740741 | -0.037037 | 0.203704 | 0 | NA | NA | 0 | 0 | 236.5 | 2972.5 | 0 | 0 | 0.0168847 | 0.0404532 | 2.39585 | 0.000844235 | 0.00168555 |
+| haiku55 | 4 | 0.229604 | 0.829837 | 0.600233 | 0.475487 | 0.737182 | 0.229604 | 0.829837 | 0.600233 | 0.475487 | 0.737182 | 1 | 0.111111 | 0 | 0 | 0 | 2361 | 26585 | 0 | 0 | 0.0209236 | 0.129291 | 6.17919 | 0.000106211 | 0.000181589 |
+| haiku55 | 5 | 0.177083 | 0.135417 | -0.0416667 | -0.11 | 0.04127 | 0.177083 | 0.135417 | -0.0416667 | -0.11 | 0.04127 | 0 | 1 | 0.111111 | 0 | 0 | 590 | 2523 | 0 | 0 | 0.00958681 | 0.0196586 | 2.05059 | 0.00056393 | 0.0015122 |
+| sonnet55 | 1 | 0.306878 | 0.550265 | 0.243386 | 0.0578759 | 0.477015 | 0.306878 | 0.550265 | 0.243386 | 0.0578759 | 0.477015 | 0 | 0.8 | 0.666667 | 0 | 0 | 2817 | 13251 | 0 | 0 | 0.472127 | 1.2402 | 2.62683 | 0.00814012 | 0.011925 |
+| sonnet55 | 2 | 0.137255 | 0.352941 | 0.215686 | 0.0714286 | 0.404268 | 0.137255 | 0.352941 | 0.215686 | 0.0714286 | 0.404268 | 0 | 0.666667 | 0.666667 | 2 | 0 | 560 | 1138 | 0 | 0 | 0.171669 | 0.229094 | 1.33451 | 0.0245242 | 0.0127275 |
+| sonnet55 | 3 | 0.407407 | 0.555556 | 0.148148 | 0 | 0.296296 | 0.407407 | 0.555556 | 0.148148 | 0 | 0.296296 | 0 | NA | NA | 5 | 0 | 476 | 846.5 | 0 | 0 | 0.340463 | 0.380779 | 1.11842 | 0.0154756 | 0.0126926 |
+| sonnet55 | 4 | 0.592075 | 0.750583 | 0.158508 | 0.113716 | 0.215438 | 0.592075 | 0.750583 | 0.158508 | 0.113716 | 0.215438 | 1 | 0 | 0 | 0 | 0 | 5349 | 10324 | 0 | 0 | 0.630044 | 1.07844 | 1.71168 | 0.00124024 | 0.00167459 |
+| sonnet55 | 5 | 0.229167 | 0.104167 | -0.125 | -0.188889 | -0.0699827 | 0.229167 | 0.104167 | -0.125 | -0.188889 | -0.0699827 | 0 | 1 | 0.555556 | 0 | 0 | 491 | 1299 | 0 | 0 | 0.156783 | 0.223038 | 1.42259 | 0.00712649 | 0.0223038 |
+| opus55 | 1 | 0.455026 | 0.455026 | 0 | -0.136364 | 0.116022 | 0.455026 | 0.455026 | 0 | -0.136364 | 0.116022 | 0 | 0.6 | 0.6 | 0 | 0 | 4706 | 20396 | 0 | 0 | 1.08706 | 3.99046 | 3.67089 | 0.0126402 | 0.0464008 |
+| opus55 | 2 | 0.352941 | 0.431373 | 0.0784314 | 0.0196078 | 0.145455 | 0.352941 | 0.431373 | 0.0784314 | 0.0196078 | 0.145455 | 0 | 0.444444 | 0.111111 | 0 | 0 | 439 | 1513 | 0 | 0 | 0.32689 | 0.499838 | 1.52907 | 0.0181606 | 0.0227199 |
+| opus55 | 3 | 0.574074 | 0.462963 | -0.111111 | -0.203704 | -0.0185185 | 0.574074 | 0.462963 | -0.111111 | -0.203704 | -0.0185185 | 0 | NA | NA | 0 | 0 | 433.5 | 960 | 0 | 0 | 0.632481 | 0.831438 | 1.31456 | 0.0204026 | 0.0332575 |
+| opus55 | 4 | 0.815851 | 0.715618 | -0.100233 | -0.286249 | 0.026812 | 0.815851 | 0.715618 | -0.100233 | -0.286249 | 0.026812 | 1 | 0 | 0 | 0 | 0 | 7043 | 10064 | 0 | 0 | 1.78939 | 2.29997 | 1.28534 | 0.00255627 | 0.00374589 |
+| opus55 | 5 | 0.125 | 0.104167 | -0.0208333 | -0.0606061 | 0.0215054 | 0.125 | 0.104167 | -0.0208333 | -0.0606061 | 0.0215054 | 0 | 0.444444 | 0.222222 | 0 | 0 | 508 | 1342 | 0 | 0 | 0.317457 | 0.492087 | 1.55009 | 0.0264547 | 0.0492087 |

diff --git a/analysis_out/precision_recall_f1.md b/analysis_out/precision_recall_f1.md
@@ -1,5 +1,7 @@
 # Precision recall F1
 
+Rule 3 has no keep items, so it cannot produce FP: its precision and F1 are unmeasured (blank).
+
 | rule | model_key | TP | FN | FP | TN | precision | precision_low | precision_high | recall | recall_low | recall_high | f1 |
 | --- | --- | --- | --- | --- | --- | --- | --- | --- | --- | --- | --- | --- |
 | 1 | qwen36 | 18 | 171 | 3 | 12 | 0.857143 | 0.653639 | 0.95019 | 0.0952381 | 0.0610933 | 0.145509 | 0.171429 |
@@ -38,24 +40,24 @@
 | 2 | haiku55_high | 16 | 35 | 5 | 4 | 0.761905 | 0.549088 | 0.89372 | 0.313725 | 0.203277 | 0.45027 | 0.444444 |
 | 2 | sonnet55_high | 18 | 33 | 6 | 3 | 0.75 | 0.551006 | 0.880006 | 0.352941 | 0.236345 | 0.490139 | 0.48 |
 | 2 | opus55_high | 22 | 29 | 1 | 8 | 0.956522 | 0.790088 | 0.992283 | 0.431373 | 0.305012 | 0.567347 | 0.594595 |
-| 3 | qwen36 | 18 | 36 | 0 | 0 | 1 | 0.824121 | 1 | 0.333333 | 0.222414 | 0.46639 | 0.5 |
-| 3 | qwen38flash | 24 | 30 | 0 | 0 | 1 | 0.862024 | 1 | 0.444444 | 0.320025 | 0.576244 | 0.615385 |
-| 3 | mistral_small4 | 19 | 35 | 0 | 0 | 1 | 0.831821 | 1 | 0.351852 | 0.23823 | 0.485152 | 0.520548 |
-| 3 | glm53flash | 23 | 31 | 0 | 0 | 1 | 0.856883 | 1 | 0.425926 | 0.303318 | 0.558373 | 0.597403 |
-| 3 | mimo26pro | 20 | 34 | 0 | 0 | 1 | 0.838875 | 1 | 0.37037 | 0.254234 | 0.503725 | 0.540541 |
-| 3 | mistral_large4 | 24 | 30 | 0 | 0 | 1 | 0.862024 | 1 | 0.444444 | 0.320025 | 0.576244 | 0.615385 |
-| 3 | haiku55 | 20 | 34 | 0 | 0 | 1 | 0.838875 | 1 | 0.37037 | 0.254234 | 0.503725 | 0.540541 |
-| 3 | sonnet55 | 22 | 32 | 0 | 0 | 1 | 0.851345 | 1 | 0.407407 | 0.286782 | 0.540332 | 0.578947 |
-| 3 | opus55 | 31 | 23 | 0 | 0 | 1 | 0.889745 | 1 | 0.574074 | 0.441627 | 0.696682 | 0.729412 |
-| 3 | qwen36_high | 22 | 32 | 0 | 0 | 1 | 0.851345 | 1 | 0.407407 | 0.286782 | 0.540332 | 0.578947 |
-| 3 | qwen38flash_high | 19 | 35 | 0 | 0 | 1 | 0.831821 | 1 | 0.351852 | 0.23823 | 0.485152 | 0.520548 |
-| 3 | mistral_small4_high | 21 | 33 | 0 | 0 | 1 | 0.845361 | 1 | 0.388889 | 0.270419 | 0.522117 | 0.56 |
-| 3 | glm53flash_high | 21 | 33 | 0 | 0 | 1 | 0.845361 | 1 | 0.388889 | 0.270419 | 0.522117 | 0.56 |
-| 3 | mimo26pro_high | 24 | 30 | 0 | 0 | 1 | 0.862024 | 1 | 0.444444 | 0.320025 | 0.576244 | 0.615385 |
-| 3 | mistral_large4_high | 22 | 32 | 0 | 0 | 1 | 0.851345 | 1 | 0.407407 | 0.286782 | 0.540332 | 0.578947 |
-| 3 | haiku55_high | 24 | 30 | 0 | 0 | 1 | 0.862024 | 1 | 0.444444 | 0.320025 | 0.576244 | 0.615385 |
-| 3 | sonnet55_high | 30 | 24 | 0 | 0 | 1 | 0.886487 | 1 | 0.555556 | 0.423756 | 0.679975 | 0.714286 |
-| 3 | opus55_high | 25 | 29 | 0 | 0 | 1 | 0.866808 | 1 | 0.462963 | 0.336899 | 0.593946 | 0.632911 |
+| 3 | qwen36 | 18 | 36 | 0 | 0 | NA | NA | NA | 0.333333 | 0.222414 | 0.46639 | NA |
+| 3 | qwen38flash | 24 | 30 | 0 | 0 | NA | NA | NA | 0.444444 | 0.320025 | 0.576244 | NA |
+| 3 | mistral_small4 | 19 | 35 | 0 | 0 | NA | NA | NA | 0.351852 | 0.23823 | 0.485152 | NA |
+| 3 | glm53flash | 23 | 31 | 0 | 0 | NA | NA | NA | 0.425926 | 0.303318 | 0.558373 | NA |
+| 3 | mimo26pro | 20 | 34 | 0 | 0 | NA | NA | NA | 0.37037 | 0.254234 | 0.503725 | NA |
+| 3 | mistral_large4 | 24 | 30 | 0 | 0 | NA | NA | NA | 0.444444 | 0.320025 | 0.576244 | NA |
+| 3 | haiku55 | 20 | 34 | 0 | 0 | NA | NA | NA | 0.37037 | 0.254234 | 0.503725 | NA |
+| 3 | sonnet55 | 22 | 32 | 0 | 0 | NA | NA | NA | 0.407407 | 0.286782 | 0.540332 | NA |
+| 3 | opus55 | 31 | 23 | 0 | 0 | NA | NA | NA | 0.574074 | 0.441627 | 0.696682 | NA |
+| 3 | qwen36_high | 22 | 32 | 0 | 0 | NA | NA | NA | 0.407407 | 0.286782 | 0.540332 | NA |
+| 3 | qwen38flash_high | 19 | 35 | 0 | 0 | NA | NA | NA | 0.351852 | 0.23823 | 0.485152 | NA |
+| 3 | mistral_small4_high | 21 | 33 | 0 | 0 | NA | NA | NA | 0.388889 | 0.270419 | 0.522117 | NA |
+| 3 | glm53flash_high | 21 | 33 | 0 | 0 | NA | NA | NA | 0.388889 | 0.270419 | 0.522117 | NA |
+| 3 | mimo26pro_high | 24 | 30 | 0 | 0 | NA | NA | NA | 0.444444 | 0.320025 | 0.576244 | NA |
+| 3 | mistral_large4_high | 22 | 32 | 0 | 0 | NA | NA | NA | 0.407407 | 0.286782 | 0.540332 | NA |
+| 3 | haiku55_high | 24 | 30 | 0 | 0 | NA | NA | NA | 0.444444 | 0.320025 | 0.576244 | NA |
+| 3 | sonnet55_high | 30 | 24 | 0 | 0 | NA | NA | NA | 0.555556 | 0.423756 | 0.679975 | NA |
+| 3 | opus55_high | 25 | 29 | 0 | 0 | NA | NA | NA | 0.462963 | 0.336899 | 0.593946 | NA |
 | 4 | qwen36 | 140 | 718 | 0 | 9 | 1 | 0.973294 | 1 | 0.16317 | 0.139956 | 0.189387 | 0.280561 |
 | 4 | qwen38flash | 462 | 396 | 0 | 9 | 1 | 0.991754 | 1 | 0.538462 | 0.505007 | 0.571573 | 0.7 |
 | 4 | mistral_small4 | 19 | 839 | 0 | 9 | 1 | 0.831821 | 1 | 0.0221445 | 0.0142218 | 0.0343271 | 0.0433295 |
